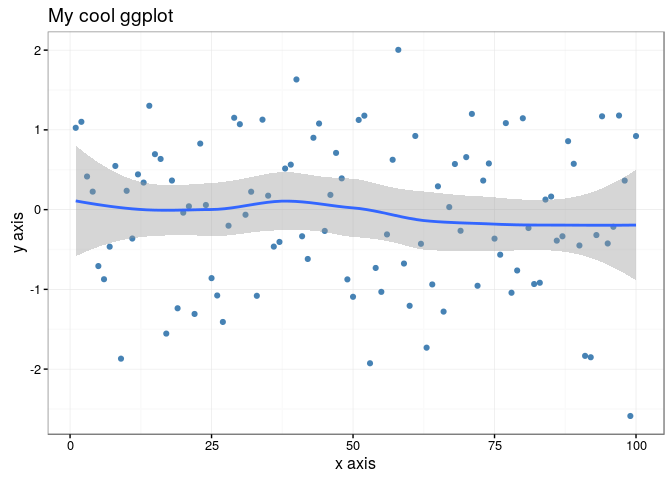
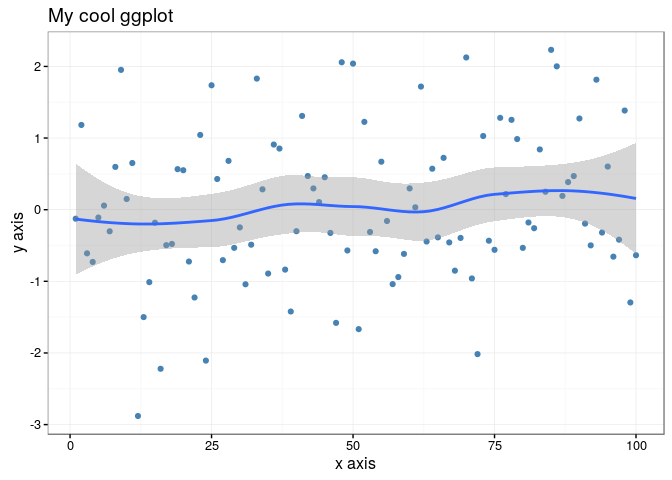
v0.1.0 for CRAN submission

diff --git a/README.md b/README.md
@@ -1,17 +1,16 @@
-[![Project Status: Active - The project has reached a stable, usable state and is being actively developed.](http://www.repostatus.org/badges/latest/active.svg)](http://www.repostatus.org/#active) [![CRAN\_Status\_Badge](http://www.r-pkg.org/badges/version/ggghost)](https://cran.r-project.org/package=ggghost) [![packageversion](https://img.shields.io/badge/Package%20version-0.0.0.9000-orange.svg?style=flat-square)](commits/master) [![Last-changedate](https://img.shields.io/badge/last%20change-2016--08--06-yellowgreen.svg)](/commits/master)
+[![Project Status: Active - The project has reached a stable, usable state and is being actively developed.](http://www.repostatus.org/badges/latest/active.svg)](http://www.repostatus.org/#active) [![CRAN\_Status\_Badge](http://www.r-pkg.org/badges/version/ggghost)](https://cran.r-project.org/package=ggghost) [![packageversion](https://img.shields.io/badge/Package%20version-0.0.0.9000-orange.svg?style=flat-square)](commits/master) [![Last-changedate](https://img.shields.io/badge/last%20change-2016--08--07-yellowgreen.svg)](/commits/master)
 
 [![Linux/Mac Travis Build Status](https://img.shields.io/travis/jonocarroll/ggghost/master.svg?label=Mac%20OSX%20%26%20Linux)](https://travis-ci.org/jonocarroll/ggghost) [![AppVeyor Build Status](https://img.shields.io/appveyor/ci/jonocarroll/ggghost/master.svg?label=Windows)](https://ci.appveyor.com/project/jonocarroll/ggghost) [![codecov](https://codecov.io/gh/jonocarroll/ggghost/branch/master/graph/badge.svg)](https://codecov.io/gh/jonocarroll/ggghost)
 
-[![GitHub forks](https://img.shields.io/github/forks/jonocarroll/ggghost.svg)](https://github.com/jonocarroll/ggghost/network) [![GitHub stars](https://img.shields.io/github/stars/jonocarroll/ggghost.svg)](https://github.com/jonocarroll/ggghost/stargazers) [![Twitter](https://img.shields.io/twitter/url/https/github.com/jonocarroll/ggghost.svg?style=social)](https://twitter.com/intent/tweet?text=Wow:&url=%5Bobject%20Object%5D)
+[![Github All Releases](https://img.shields.io/github/downloads/jonocarroll/ggghost/total.svg?maxAge=2592000)]() [![GitHub forks](https://img.shields.io/github/forks/jonocarroll/ggghost.svg)](https://github.com/jonocarroll/ggghost/network) [![GitHub stars](https://img.shields.io/github/stars/jonocarroll/ggghost.svg)](https://github.com/jonocarroll/ggghost/stargazers) [![Twitter](https://img.shields.io/twitter/url/https/github.com/jonocarroll/ggghost.svg?style=social)](https://twitter.com/intent/tweet?text=Wow:&url=%5Bobject%20Object%5D)
 
 <!-- README.md is generated from README.Rmd. Please edit that file -->
 :ghost: *Oh, no! I think I saw a ... g-g-ghost*
-=================================================
+===============================================
 
 ![](https://github.com/jonocarroll/ggghost/raw/master/inst/img/scooby.gif)
 
 Capture the spirit of your `ggplot` calls.
-
 
 Motivation
 ----------
@@ -41,12 +40,12 @@ use `%g<%` to initiate storage of the `ggplot` calls then add to the call with e
 tmpdata <- data.frame(x = 1:100, y = rnorm(100))
 head(tmpdata)
 #>   x          y
-#> 1 1  1.0263606
-#> 2 2  1.1015135
-#> 3 3  0.4156634
-#> 4 4  0.2260132
-#> 5 5 -0.7073620
-#> 6 6 -0.8725566
+#> 1 1 -0.1251826
+#> 2 2  1.1832852
+#> 3 3 -0.6089940
+#> 4 4 -0.7293031
+#> 5 5 -0.1092292
+#> 6 6  0.0576761
 ```
 
 ``` r
@@ -127,9 +126,8 @@ str(print(z))
 #> List of 9
 #>  $ data       :'data.frame': 100 obs. of  2 variables:
 #>   ..$ x: int [1:100] 1 2 3 4 5 6 7 8 9 10 ...
-#>   ..$ y: num [1:100] 1.026 1.102 0.416 0.226 -0.707 ...
+#>   ..$ y: num [1:100] -0.125 1.183 -0.609 -0.729 -0.109 ...
 #>  $ layers     :List of 2
-#>   ..$ :Classes 'LayerInstance', 'Layer', 'ggproto' <ggproto object: Class LayerInstance, Layer>
 #> [... truncated ...]
 ```
 
@@ -141,7 +139,7 @@ tmpdata_new <- data.frame(x = xvals, y = sin(xvals))
 print(z - geom_smooth()) %+% tmpdata_new
 ```
 
-![](inst/img/README-unnamed-chunk-11-1.png)![](inst/img/README-unnamed-chunk-11-2.png)
+![](inst/img/README-unnamed-chunk-11-2.png)
 
 `ggplot` still works as normal if you want to avoid storing the calls.
 
@@ -188,17 +186,18 @@ str(z)
 #>   ..$ data_name: chr "tmpdata"
 #>   ..$ data     :'data.frame':    100 obs. of  2 variables:
 #>   .. ..$ x: int [1:100] 1 2 3 4 5 6 7 8 9 10 ...
-#>   .. ..$ y: num [1:100] 1.026 1.102 0.416 0.226 -0.707 ...
+#>   .. ..$ y: num [1:100] -0.125 1.183 -0.609 -0.729 -0.109 ...
 
 recover_data(z)
 head(tmpdata)
 #>   x          y
-#> 1 1  1.0263606
-#> 2 2  1.1015135
-#> 3 3  0.4156634
-#> 4 4  0.2260132
-#> 5 5 -0.7073620
-#> 6 6 -0.8725566
+#> 1 1 -0.1251826
+#> 2 2  1.1832852
+#> 3 3 -0.6089940
+#> 4 4 -0.7293031
+#> 5 5 -0.1092292
+#> 6 6  0.0576761
+
 z
 ```
 

diff --git a/NEWS.md b/NEWS.md
@@ -1,3 +1,3 @@
 # ggghost 0.1.0 
 
-* Initial CRAN submission.
+* Initial CRAN submission. No ERRORs, WARNINGs, or NOTEs.
